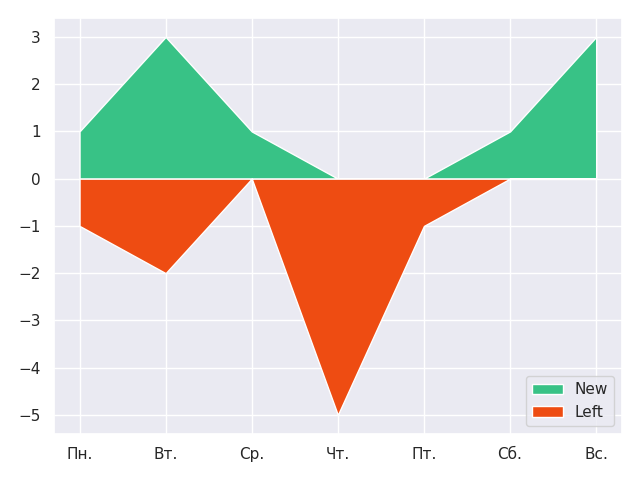
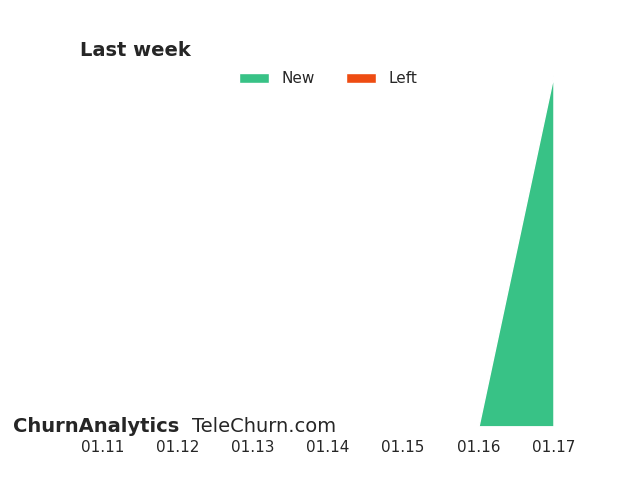
Update visualiser and serializer

diff --git a/db/DB_connector.py b/db/DB_connector.py
@@ -66,16 +66,16 @@ class Database:
     def create_user(self, telegram_id, full_name: str, username: str,):
         self.connection.ping()
         with self.connection.cursor() as cursor:
-            cursor.execute(
-                'INSERT IGNORE INTO users (telegram_id, full_name, username) VALUES(%s, %s, %s)', (telegram_id, full_name, username))
+            sql = 'INSERT IGNORE INTO users (telegram_id, full_name, username) VALUES(%s, %s, %s)'
+            cursor.execute(sql, (telegram_id, full_name, username))
             self.connection.commit()
             self.connection.close()
 
     def create_chat_or_channel(self, chat_link):
         self.connection.ping()
         with self.connection.cursor() as cursor:
-            cursor.execute(
-                'INSERT IGNORE INTO chats_or_channels (chat_link) VALUES(%s)', (chat_link,))
+            sql = 'INSERT IGNORE INTO chats_or_channels (chat_link) VALUES(%s)'
+            cursor.execute(sql, (chat_link,))
             self.connection.commit()
             self.connection.close()
 
@@ -90,19 +90,16 @@ class Database:
                 username TEXT,
                 full_name TEXT ,
                 status TEXT,
-                date TEXT,
+                date DATE,
                 subs_amount BIGINT);''')
             self.connection.commit()
         with self.connection.cursor() as cursor:
-
             cursor.execute(
                 'INSERT IGNORE INTO chats_or_channels (chat_link,chat_id,chat_subs_amount,chat_name) VALUES(%s,%s,%s,%s)', (chat_link, chat_num, chat_subs_amount, chat_name))
             self.connection.commit()
-
             cursor.execute(
                 "SELECT id FROM users WHERE telegram_id=(%s)", (telegram_id,))
             user_id = cursor.fetchone()[0]
-            print(chat_name)
             cursor.execute(
                 "SELECT id FROM chats_or_channels WHERE chat_name=(%s)", (chat_name,))
             chat_id = cursor.fetchone()[0]
@@ -110,37 +107,43 @@ class Database:
                 'INSERT IGNORE INTO users_chats(user_id, chat_id) VALUES (%s,%s)', (user_id, chat_id))
             self.connection.commit()
 
-    def all_chats(self, telegram_id):
+    def all_chats(self, telegram_id) -> tuple:
         self.connection.ping()
         with self.connection.cursor() as cursor:
-            keywords = cursor.execute(
+            chats = cursor.execute(
                 '''SELECT chat_name
                     FROM chats_or_channels
                     WHERE id IN (SELECT chat_id FROM users_chats WHERE user_id =(SELECT id FROM users WHERE telegram_id=(%s))) ''', (telegram_id,))
-            keywords = cursor.fetchall()
+            chats = cursor.fetchall()
             self.connection.commit()
             self.connection.close()
-            return [i[0] for i in keywords]
+            return [i[0] for i in chats]
 
     def add_event(self, chat_id, user_id, username, full_name, status, date, subs_amount):
+        now = date
+        str_now = now.isoformat()
         self.connection.ping()
         with self.connection.cursor() as cursor:
             table_name = f"chat_{str(chat_id)[1:]}"
-            cursor.execute(
-                '''INSERT IGNORE INTO ''' + table_name + '''(user_id, username, full_name, status, date, subs_amount)
-                VALUES (%s,%s,%s,%s,%s,%s) ''',
-                (user_id, username, full_name, status, date, subs_amount))
-
+            sql = """INSERT IGNORE INTO """+table_name + \
+                """ (user_id, username, full_name, status, date, subs_amount) VALUES (%s,%s,%s,%s,%s,%s)"""
+            cursor.execute(sql, (
+                user_id,
+                username,
+                full_name,
+                status,
+                str_now,
+                subs_amount))
             self.connection.commit()
             self.connection.close()
 
-    def user_event(self, user_id):
-        result = {}
+    def user_events(self, user_id: int) -> dict:
+        result = dict()
         self.connection.ping()
         with self.connection.cursor() as cursor:
-            sql = "SELECT chat_id,chat_name FROM chats_or_channels WHERE id in(SELECT chat_id FROM users_chats WHERE user_id = (SELECT user_id FROM users WHERE telegram_id=(%s)))"
-            cursor.execute(
-                sql, (user_id))
+            sql = """SELECT chat_id,chat_name FROM chats_or_channels WHERE id in 
+            (SELECT chat_id FROM users_chats WHERE user_id = (SELECT user_id FROM users WHERE telegram_id=(%s)))"""
+            cursor.execute(sql, (user_id))
             chats = cursor.fetchall()
         with self.connection.cursor() as cursor:
             for chat_id in chats:

diff --git a/utils/serializer.py b/utils/serializer.py
@@ -1,0 +1,69 @@
+import datetime
+
+"""Rebuild CLASS-BASED serializer"""
+
+"""Количетсво подписчиков для отсчета жизненного цикла
+    Берем первую дату, собития в канале, или дату присоединения пользователя.  И если пользователь вышел - вызываем.
+    Вынести в отдельную функцию!!!"""
+subs_amount_for_life_cycle = int()
+date_for_life_cycle = ""
+
+
+async def serializer(chat_title: str, events: list):
+    """stray_list для дальнейшей обработки количества залетных пользователей.
+       Они пришли, значи заинтересованы, но что-то в этот раз их оттолкнуло и при следующей рекламе весьма вероятно их зацепить."""
+    today = datetime.date.today()
+    result = dict()
+    result["period"] = [datetime.date.strftime(
+        today - datetime.timedelta(days=i), "%m.%d") for i in range(6, -1, -1)]
+    result["left"] = [0, 0, 0, 0, 0, 0, 0]
+    result["join"] = [0, 0, 0, 0, 0, 0, 0]
+    week_end = datetime.date.today() - datetime.timedelta(days=6)
+    # Users lists
+    departed_list = list()
+    remained_list = list()
+    stray_list = list()  # Дописать обработку залетных
+    # User events counters
+    remained_count = int()
+    departed_count = int()
+    stray_count = int()
+    """Работа функции будет настроена на опеределенный день?
+       Если на определенный день, то рассылка будет считать с начала недели и собирать данные.
+       (предусмотрен ли запрос в течении недели, с отрисовкой графика???) """
+    if events == ():
+        return f"No events for {chat_title}"
+    else:
+        for event in events:
+            username = event[2]
+            full_name = event[3]
+            status = event[4]
+            date = event[5]
+            str_date = datetime.date.strftime(date, "%m.%d")
+            subs_amount = event[6]
+            user_data = [username, full_name, date]
+            day_index = result["period"].index(str_date)
+            if week_end < date:  # проверка даты события
+                if status == "member":
+                    if user_data not in departed_list:
+                        remained_list.append(user_data)
+                        result["join"][day_index] += 1
+                    else:
+                        stray_list.append(user_data)
+                        stray_count += 1
+                        departed_list.remove(user_data)
+                        result["left"][day_index] -= 1
+                if status == "left":
+                    if user_data not in remained_list:
+                        departed_list.append(user_data)
+                        result["left"][day_index] -= 1
+                    else:
+                        stray_list.append(user_data)
+                        stray_count += 1
+                        remained_list.remove(user_data)
+                        result["join"][day_index] -= 1
+            else:
+                break
+            """ Не хватает всех вариантов нахождения в списках
+                Если пользователь в списке залетных, но присоединился и не вышел, добавляем в список присоединившихся"""
+    return [result, departed_list, remained_list, stray_list]
+    # return {"chat_title": chat_title, "departed_count": departed_count, "remained_count": remained_count, "stray_count": stray_count}

diff --git a/utils/visualizer.py b/utils/visualizer.py
@@ -3,23 +3,77 @@ import pandas as pd
 import matplotlib.pyplot as plt
 
 
-def create(dataset: dict):
+def add_value_labels(ax, spacing=5):
+    """Add labels to the end of each bar in a bar chart.
+
+    Arguments:
+        ax (matplotlib.axes.Axes): The matplotlib object containing the axes
+            of the plot to annotate.
+        spacing (int): The distance between the labels and the bars.
+    """
+    print(ax)
+    # For each bar: Place a label
+    for rect in ax:
+        print(rect)
+        # Get X and Y placement of label from rect.
+        y_value = rect.get_height()
+        x_value = rect.get_x() + rect.get_width() / 2
+
+        # Number of points between bar and label. Change to your liking.
+        space = spacing
+        # Vertical alignment for positive values
+        va = 'bottom'
+
+        # If value of bar is negative: Place label below bar
+        if y_value < 0:
+            # Invert space to place label below
+            space *= -1
+            # Vertically align label at top
+            va = 'top'
+
+        # Use Y value as label and format number with one decimal place
+        label = "{:.1f}".format(y_value)
+
+        # Create annotation
+        ax.annotate(
+            label,                      # Use `label` as label
+            (x_value, y_value),         # Place label at end of the bar
+            xytext=(0, space),          # Vertically shift label by `space`
+            textcoords="offset points",  # Interpret `xytext` as offset in points
+            ha='center',                # Horizontally center label
+            va=va)                      # Vertically align label differently for
+        # positive and negative values.
+
+
+# Call the function above. All the magic happens there.
+
+def create_plot_png(dataset: dict):
     # set seaborn style
     sns.set_theme()
     # define DataFrame
     df = pd.DataFrame(dataset)
 
     # create area chart
-    plt.stackplot(df.period,  df.team_B,
-                  labels=['New'],
-                  colors=["#38c286",]
-                  )
-    plt.stackplot(df.period,  df.team_C,
-                  labels=['Left'],
-                  colors=["#ee4c12"],)
+    ax1 = plt.stackplot(df.period,  df["join"],
+                        labels=['New'],
+                        colors=["#38c286"],
+                        )
+    ax2 = plt.stackplot(df.period,  df["left"],
+                        labels=['Left'],
+                        colors=["#ee4c12"],)
     # add legend
-    plt.legend(loc='lower right')
-
+    plt.legend(numpoints=1, frameon=False,
+               loc='upper center', ncol=2)
+    # remove ticks
+    # plt.xticks([])
+    plt.yticks([])
     # display area chart
-    plt.tight_layout()
-    plt.savefig('out.png')
+    # plt.tight_layout()
+    # add text
+
+    plt.figtext(0.02, 0.1, "ChurnAnalytics",
+                fontsize=14, fontweight="bold")
+    plt.figtext(0.3, 0.1, "TeleChurn.com",
+                fontsize=14, )
+    plt.title("Last week", loc="left", pad=1.4, fontsize=14, fontweight="bold")
+    plt.savefig('out.png', transparent=True)

diff --git a/handlers/mailer.py b/handlers/mailer.py
@@ -1,26 +1,36 @@
 from main import dp, db
 from aiogram import types
-from utils.visualizer import create
-dataset = {'period': ["Пн.", "Вт.", "Ср.", "Чт.", "Пт.", "Сб.", "Вс."],
-           'team_B': [1, 3, 1, 0, 0, 1, 3],
-           'team_C': [-1, -2, -0, -5, -1, 0, 0],
-           }
+from utils.visualizer import create_plot_png
+from utils.serializer import serializer
+
+# dataset = {'period': [1, 2, 3, 4, 5, 6, 7],
+#            'join': [1, 3, 1, 0, 0, 1, 3],
+#            'left': [-1, -2, -0, -5, -1, 0, 0],
+#            }
 
 
 @dp.message_handler(commands=["a"])
 async def day_report(message: types.Message):
-    events = db.user_event(message.from_id)
-    for key in events:
-        if events[key] == ():
-            await message.answer(f"Non event in {key}")
+
+    users_chat_or_channel_events = db.user_events(message.from_id)
+    """ Временная функция для рассылки данных из обработчика """
+    for chat_title in users_chat_or_channel_events:
+        events = users_chat_or_channel_events[chat_title]
+        dataset = await serializer(chat_title, events)
+        """ ассанхронный mathplotlib???"""
+        if "No events" not in dataset:
+            create_plot_png(dataset[0])
+            """Отправлять файл бинарником без сохранения?"""
+            join = [i[1]for i in dataset[1]]
+            left = [i[1]for i in dataset[2]]
+            stray = [i[1]for i in dataset[3]]
+           # вывод списка пользователей - настроить
+            with open("out.png", "rb") as a:
+                await message.answer_photo(photo=a, caption="""Отчет для: {}
+                                           \nУшли: {}
+                                           \nПрисоединились: {}
+                                           \nНе остались: {}
+                                           """.format(chat_title, join, left, stray))
+
         else:
-            for event in events[key]:
-                if event[6] != "2023-01-06":
-                    # print(datetime.date.strptim(
-                    #     str(event[6]), "YYYY-mm-dd"))
-                    await message.answer(f"{key} event {event}")
-                else:
-                    return
-    a = create(dataset)
-    with open("out.png", "rb") as a:
-        await message.answer_photo(photo=a)
+            await message.answer("Нет событий для {}".format(chat_title))

diff --git a/handlers/chat_or_channel_event_handler.py b/handlers/chat_or_channel_event_handler.py
@@ -11,6 +11,6 @@ async def some_handler(chat_member: types.ChatMemberUpdated):
     username = chat_member.from_user.username
     full_name = chat_member.from_user.full_name
     status = chat_member.new_chat_member.status
-    date = str(datetime.date.today())
+    date = datetime.date.today()
     db.add_event(chat_id, user_id, username,
                  full_name, status, date, subs_amount)

diff --git a/handlers/__init__.py b/handlers/__init__.py
@@ -1,5 +1,5 @@
 from .handlers import *
 from .add_chats import *
-from .event_handler import *
+from .chat_or_channel_event_handler import *
 from .mailer import *
 __all__ = ['dp']
